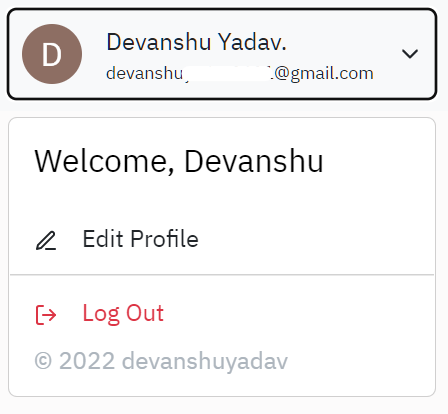
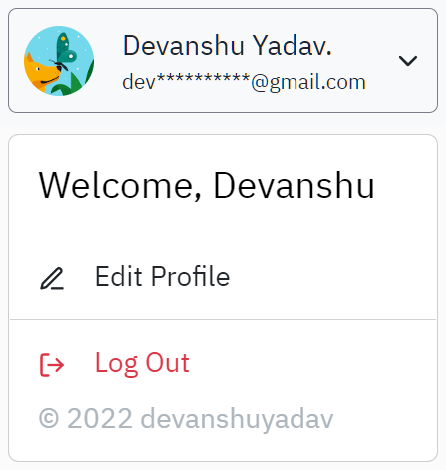
Fixed several bugs
- Only show 3 characters in email address
- update second section image
- Wrap text onto new line in profile name
- Delete extra image
- set all dates to dynamic date

diff --git a/src/components/Dashboard.jsx b/src/components/Dashboard.jsx
@@ -54,7 +54,16 @@ export default function Dashboard() {
         />
         <span>
           <div>{currentUser.displayName}</div>
-          <div className="small-text">{currentUser.email}</div>
+          <div className="small-text">
+            {currentUser.email.split("@")[0].slice(0, 3) +
+              "*".repeat(
+                currentUser.email.split("@")[0].length - 3 < 10
+                  ? currentUser.email.split("@")[0].length - 3
+                  : 10
+              ) +
+              "@" +
+              currentUser.email.split("@")[1]}
+          </div>
         </span>
         <IoIosArrowDown className="ms-3" />
       </Nav.Link>
@@ -116,7 +125,7 @@ export default function Dashboard() {
                   style={{ color: "#000" }}
                   disabled="true"
                 >
-                  Welcome, {currentUser.displayName}
+                  Welcome, {currentUser.displayName.split(" ")[0]}
                 </NavDropdown.Item>
                 <Link className="dropdown-item mt-3" to="/update-profile">
                   <FiEdit3 className="me-3" />
@@ -130,7 +139,7 @@ export default function Dashboard() {
                   </span>
                 </NavDropdown.Item>
                 <NavDropdown.Item disabled="true">
-                  © 2022 devanshuyadav
+                  © {new Date().getFullYear()} devanshuyadav
                 </NavDropdown.Item>
               </Dropdown.Menu>
             </Dropdown>

diff --git a/src/components/Footer.jsx b/src/components/Footer.jsx
@@ -3,14 +3,15 @@ import { Container } from "react-bootstrap";
 import { FaLinkedin, FaGithub } from "react-icons/fa";
 
 export default function Footer() {
-  const year = new Date();
   return (
     <Container
       fluid
       className="d-flex justify-content-center align-items-center py-5 bg-dark text-light"
     >
       <span className="heading px-5">React x Firebase</span>
-      <span>© devanshuyadav, {year.getFullYear()}. All rights reserved.</span>
+      <span>
+        © devanshuyadav, {new Date().getFullYear()}. All rights reserved.
+      </span>
       <span className="px-5">
         <a className="ms-3" href="https://www.linkedin.com/in/devanshuyadav16/">
           <FaLinkedin size={20} />

diff --git a/src/index.css b/src/index.css
@@ -24,6 +24,7 @@ a {
 
 .heading {
   font-size: 1.333rem;
+  white-space: initial;
 }
 
 .small-text {
